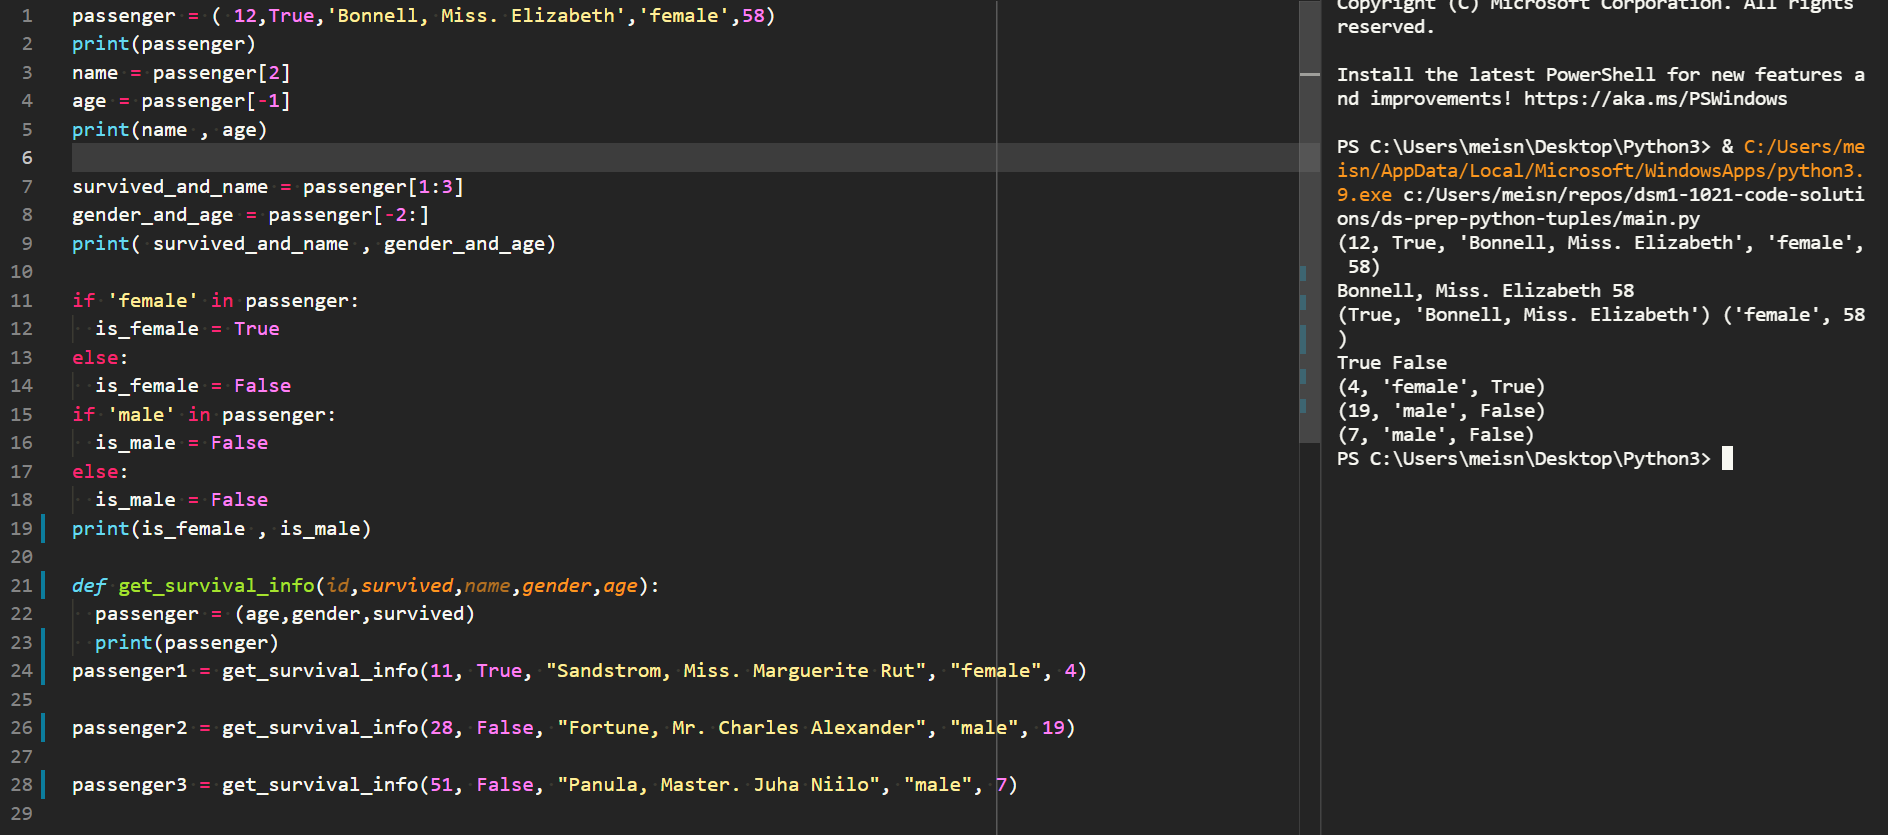
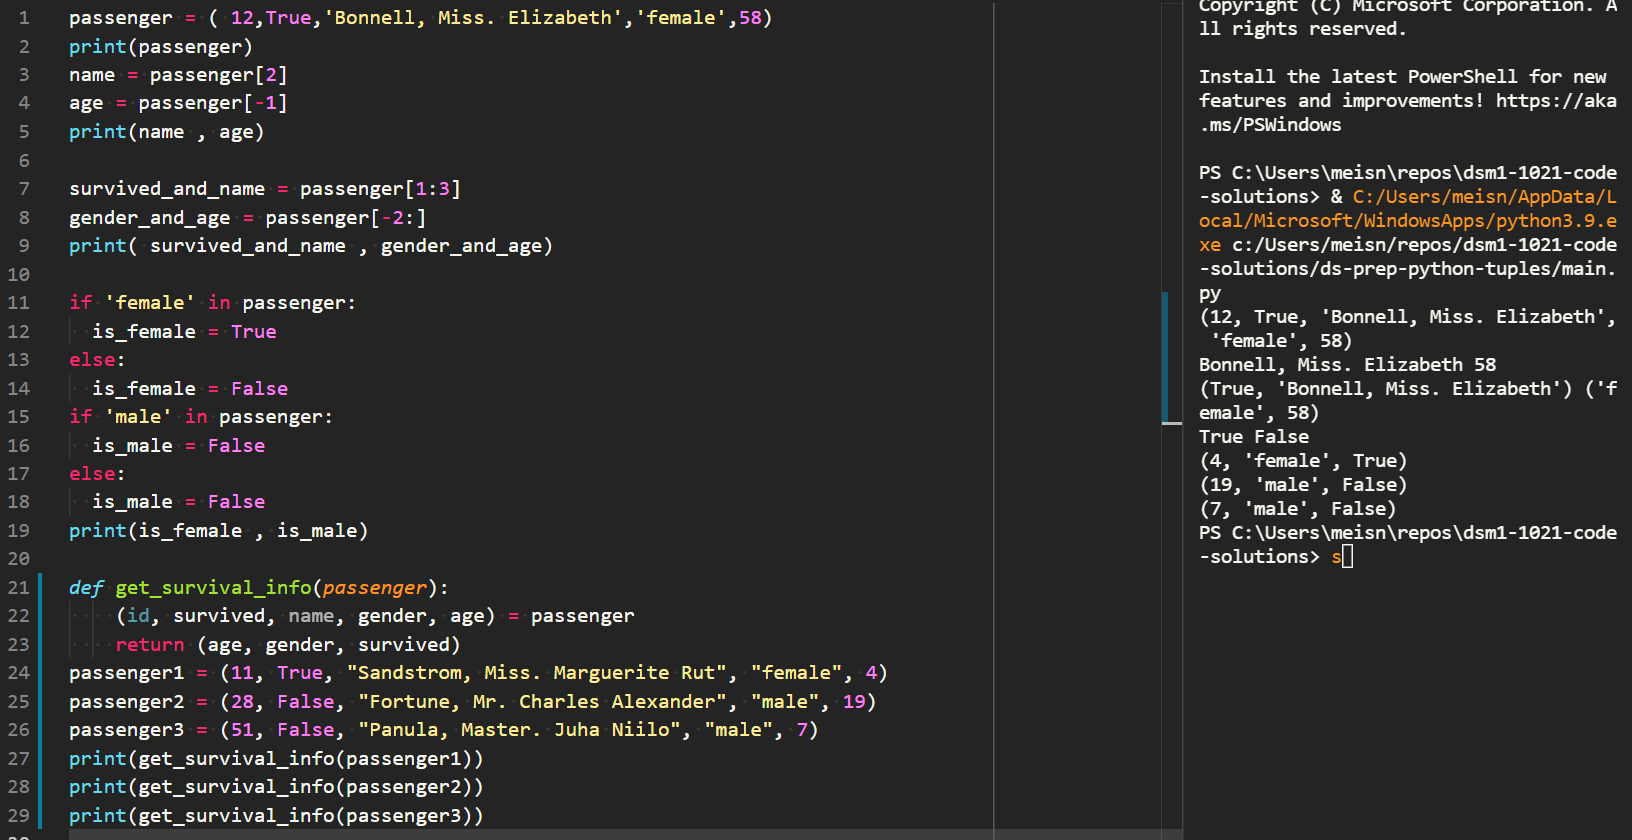
Completed ds-prep-python-tuples

diff --git a/ds-prep-python-tuples/main.py b/ds-prep-python-tuples/main.py
@@ -18,9 +18,12 @@ else:
   is_male = False
 print(is_female , is_male)
 
-def get_survival_info(id,survived,name,gender,age):
-  passenger = (age,gender,survived)
-  print(passenger)
-passenger1 = get_survival_info(11, True, "Sandstrom, Miss. Marguerite Rut", "female", 4)
-passenger2 = get_survival_info(28, False, "Fortune, Mr. Charles Alexander", "male", 19)
-passenger3 = get_survival_info(51, False, "Panula, Master. Juha Niilo", "male", 7)
+def get_survival_info(passenger):
+    (id, survived, name, gender, age) = passenger
+    return (age, gender, survived)
+passenger1 = (11, True, "Sandstrom, Miss. Marguerite Rut", "female", 4)
+passenger2 = (28, False, "Fortune, Mr. Charles Alexander", "male", 19)
+passenger3 = (51, False, "Panula, Master. Juha Niilo", "male", 7)
+print(get_survival_info(passenger1))
+print(get_survival_info(passenger2))
+print(get_survival_info(passenger3))
